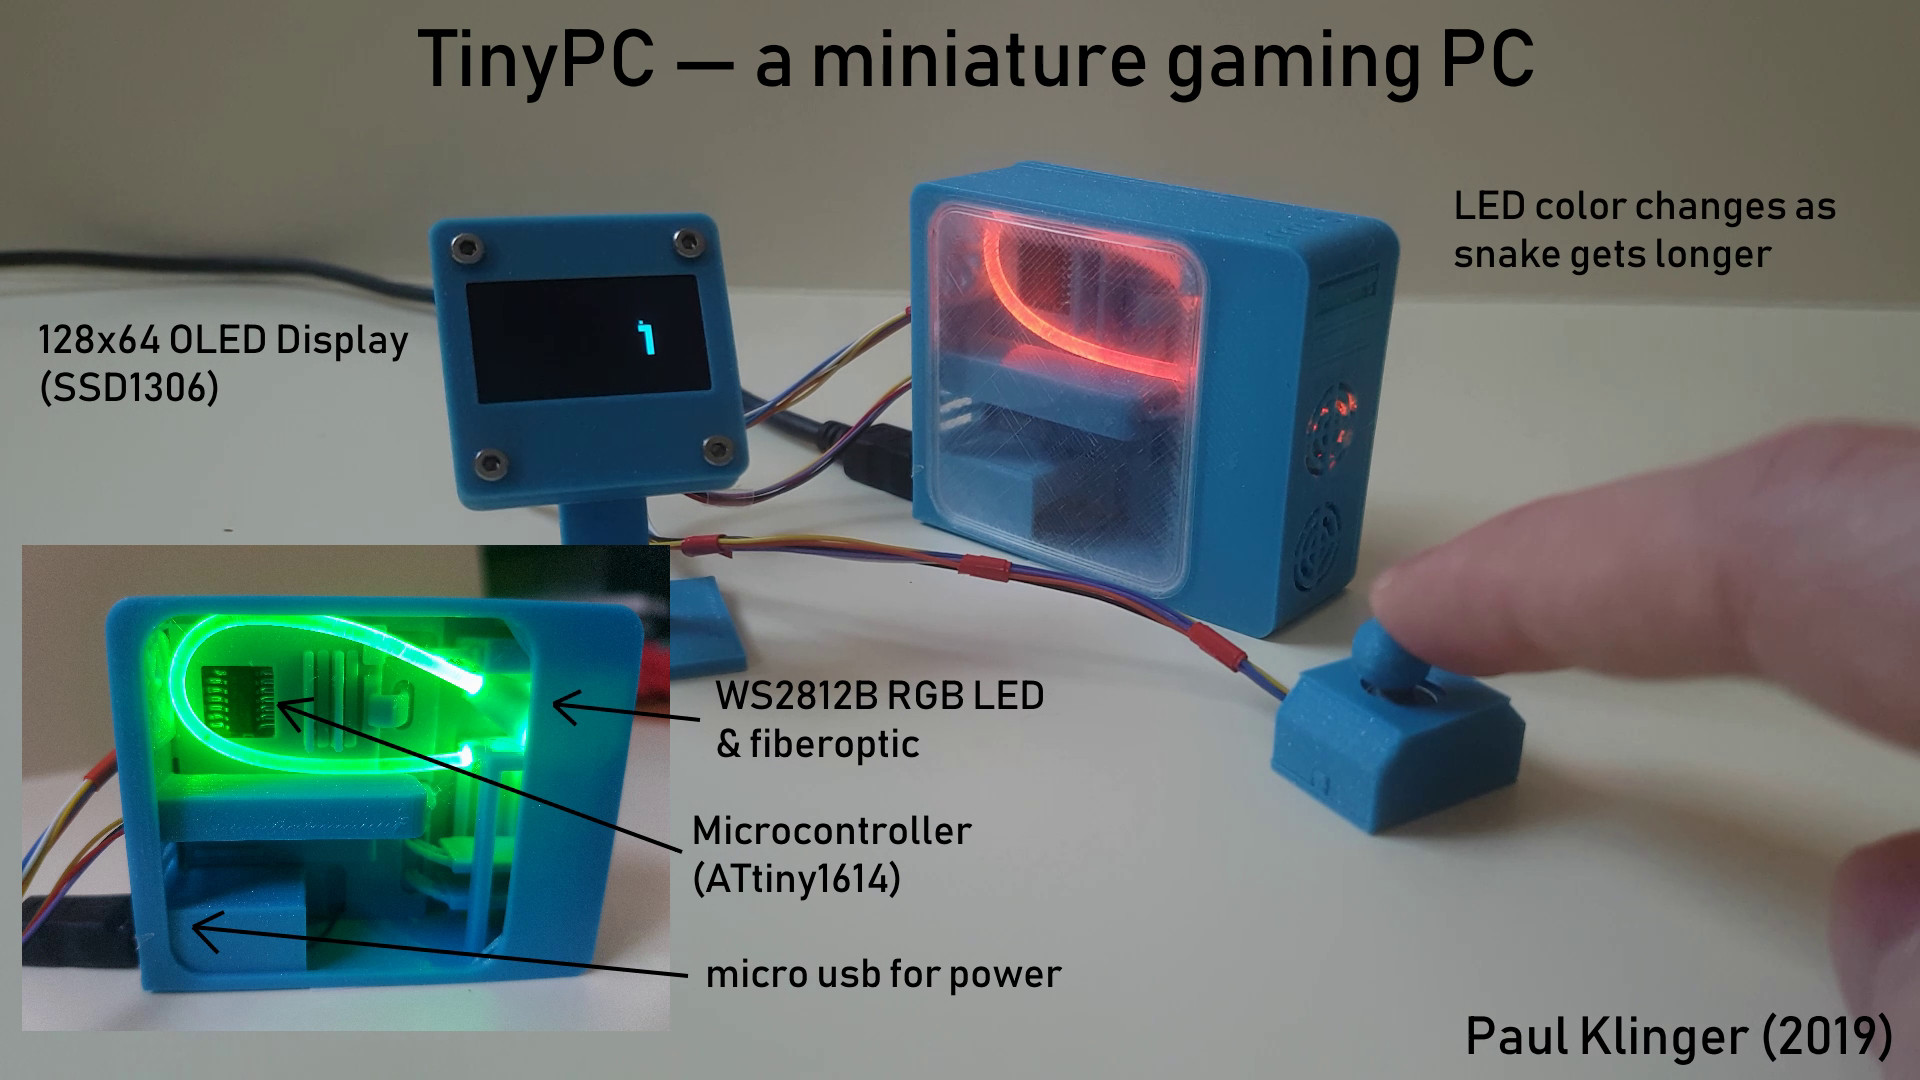
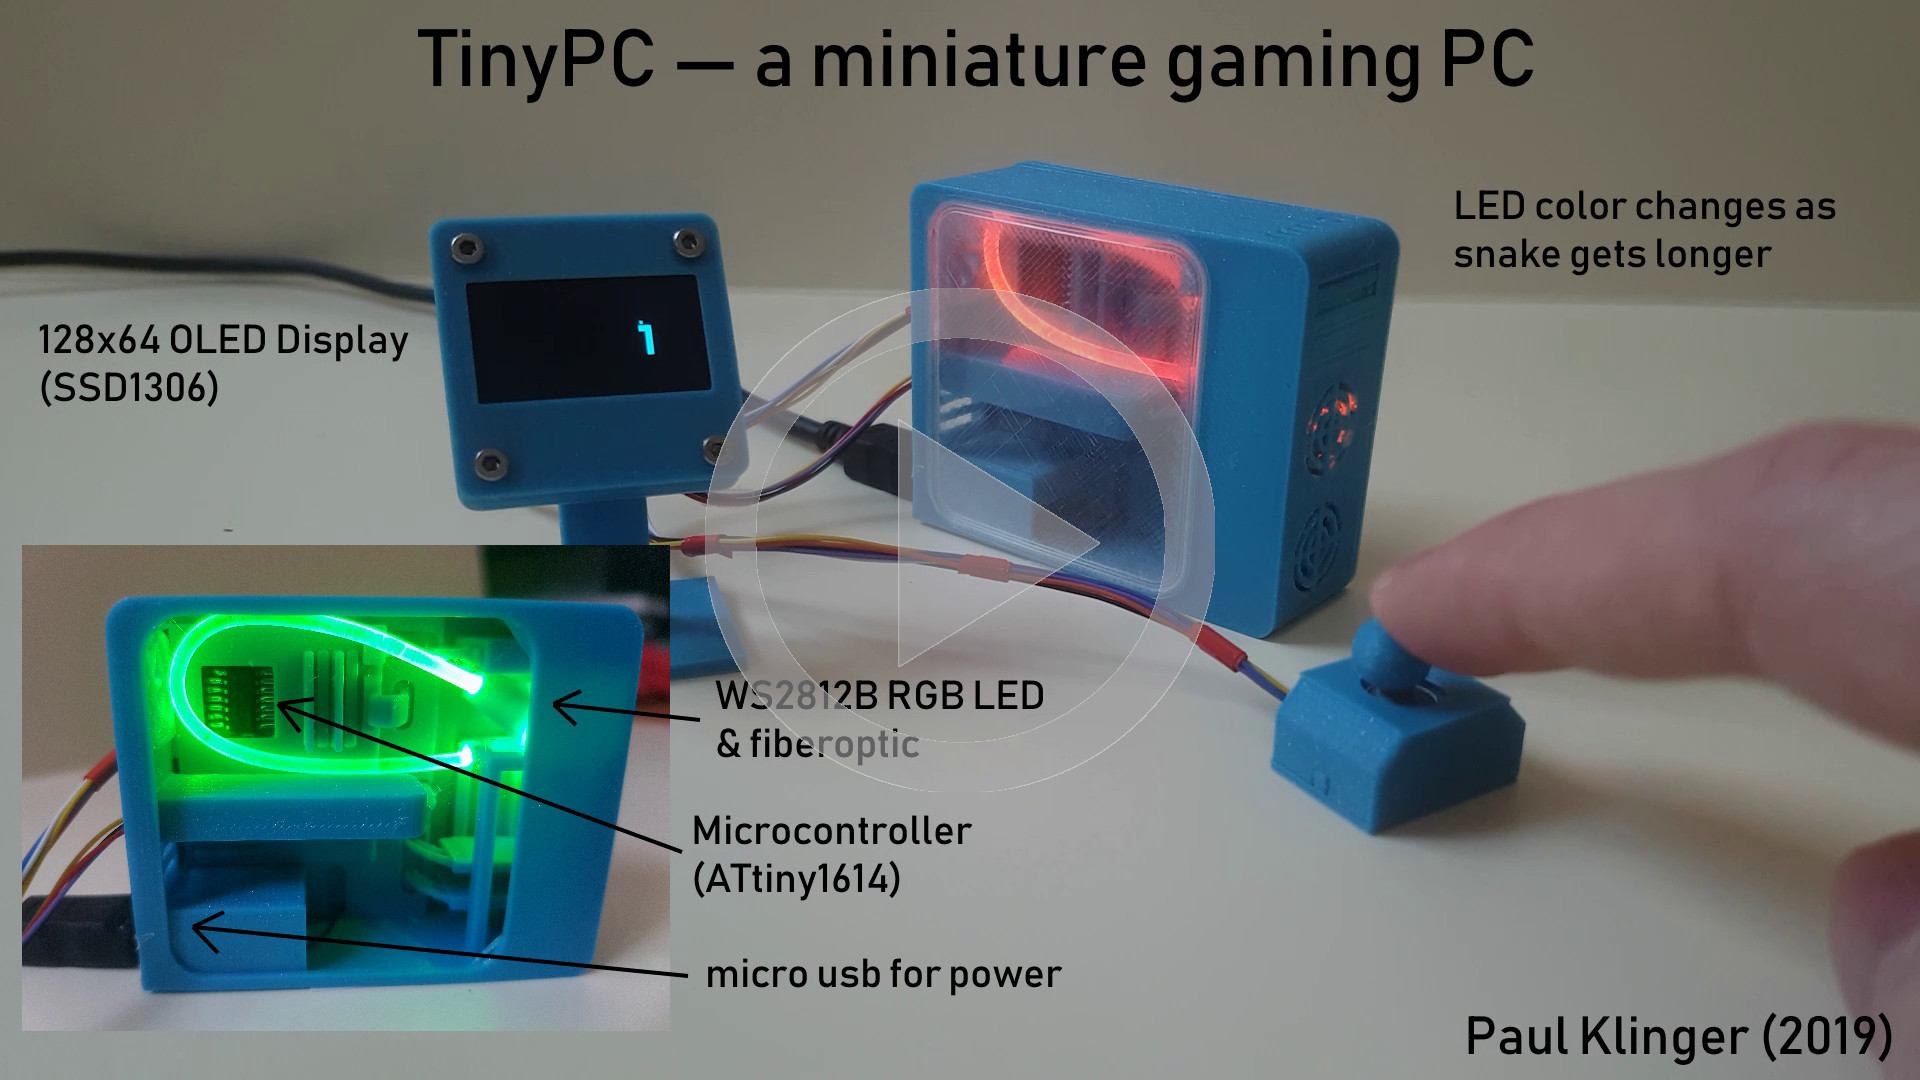
corrected video link

Changed region(s): [[0.4375, 0.2444, 0.6562, 0.6111], [0.3438, 0.3361, 0.4375, 0.5194], [0.375, 0.55, 0.4688, 0.7028]]

diff --git a/README.md b/README.md
@@ -1,6 +1,6 @@
 # TinyPC — A miniature gaming PC that plays snake
 
 
-[![](video_link_image.jpg)](https://youtu.be/G88BLo7Vowo "Project video")
+[![](video_link_image.jpg)](https://youtu.be/tn-1DwYtiEk "Project video")
 
 ![parts](parts.jpg)
